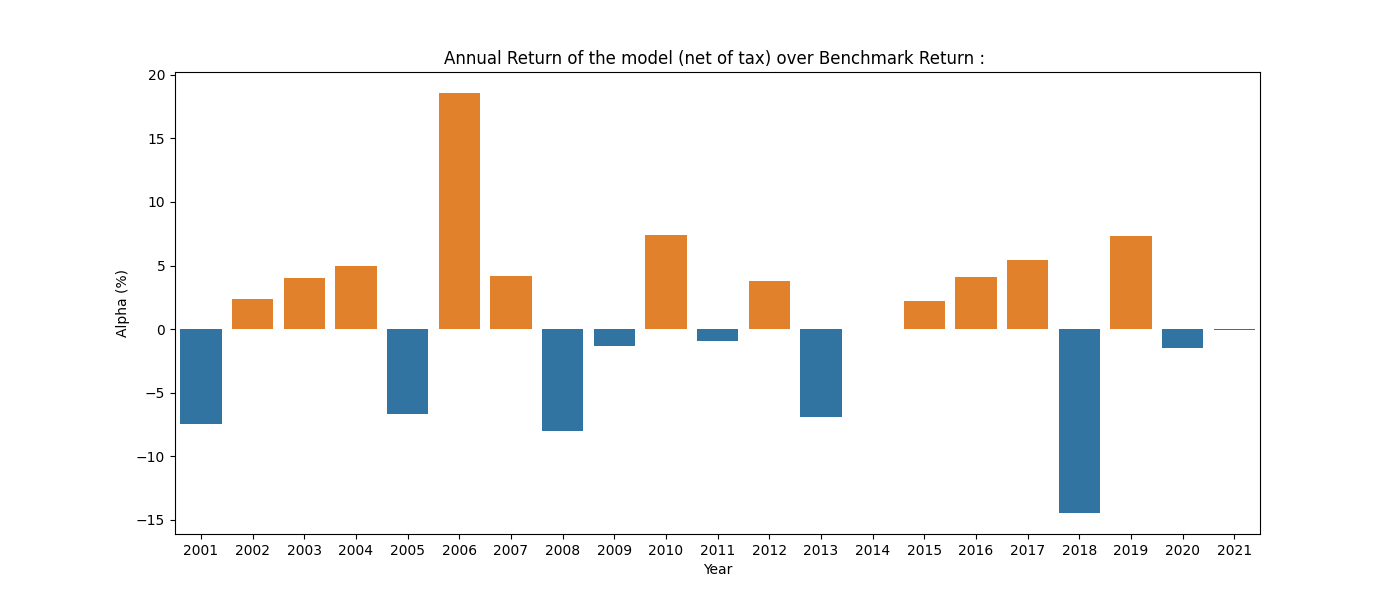
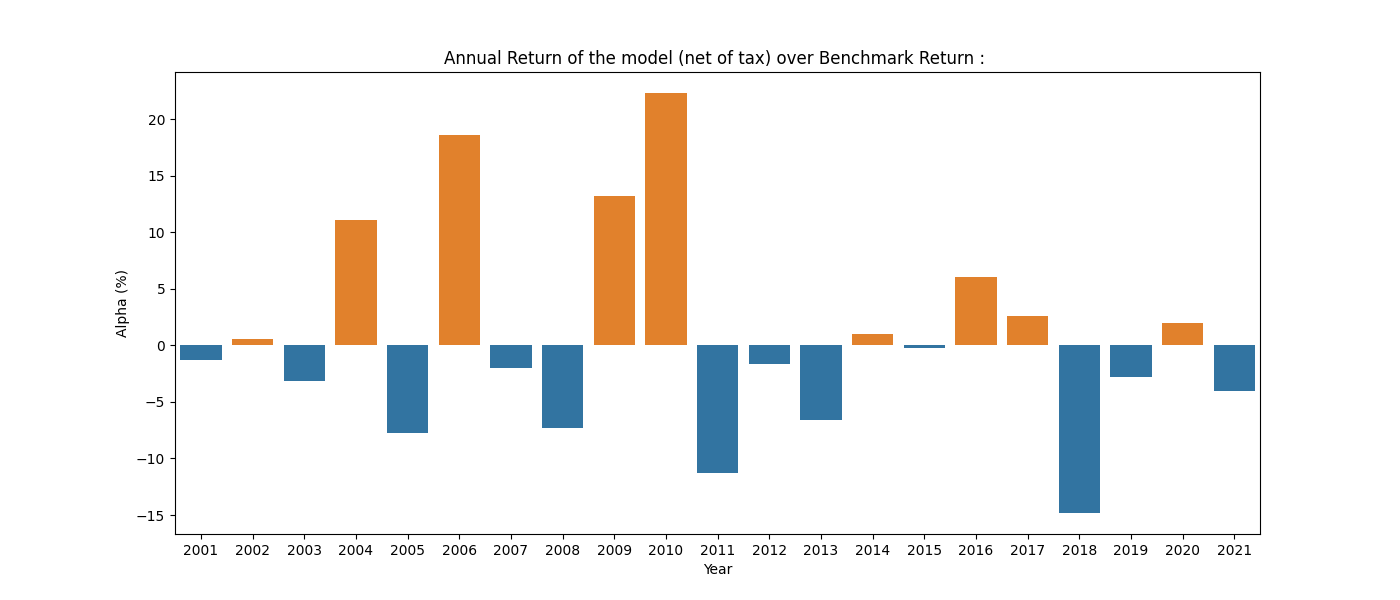
update

diff --git a/SW/size/backtest.py b/SW/size/backtest.py
@@ -162,7 +162,7 @@ def run_backtest():
     df_prob_dict = {}
 
     threshold = 0.8
-    batch_size = 15
+    batch_size = 20
     verbose = 4
     training_window = 5
     nb_epochs_first = 300
@@ -214,7 +214,7 @@ def run_backtest():
     perf_bench = price_to_perf(bench_price.loc[df_pred_dict['Ensemble'].index[0]:df_pred_dict['Ensemble'].index[-1]], log=False)
     performance_plot(df_pred_dict, daily_returns, bench_price, log=True)
     annual_alpha_plot(perf_bench, df_pred_dict['Ensemble'], daily_returns)
-    index_pred_plot(df_pred_dict['Ensemble'], daily_returns)
+    # index_pred_plot(df_pred_dict['Ensemble'], daily_returns)
 
 if __name__ == "__main__":
     run_backtest()
